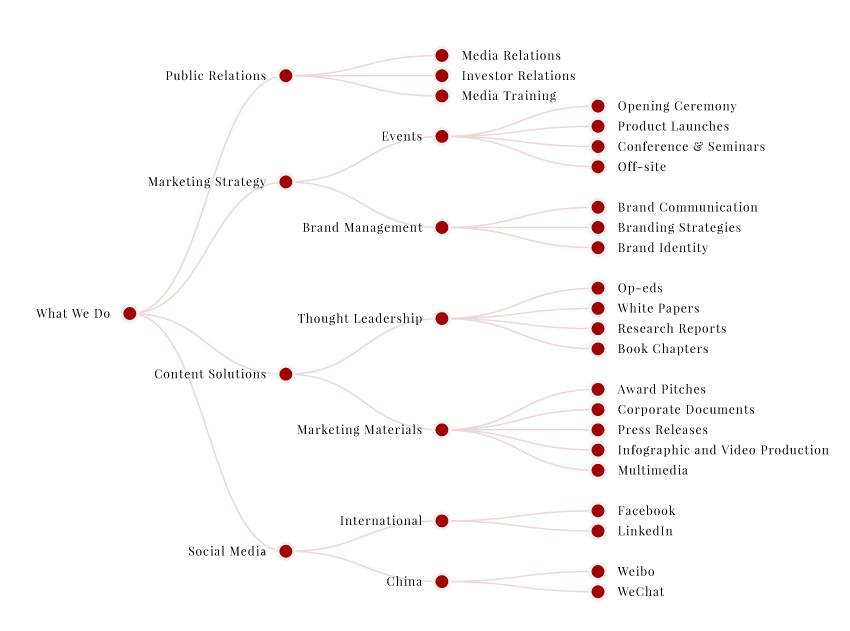
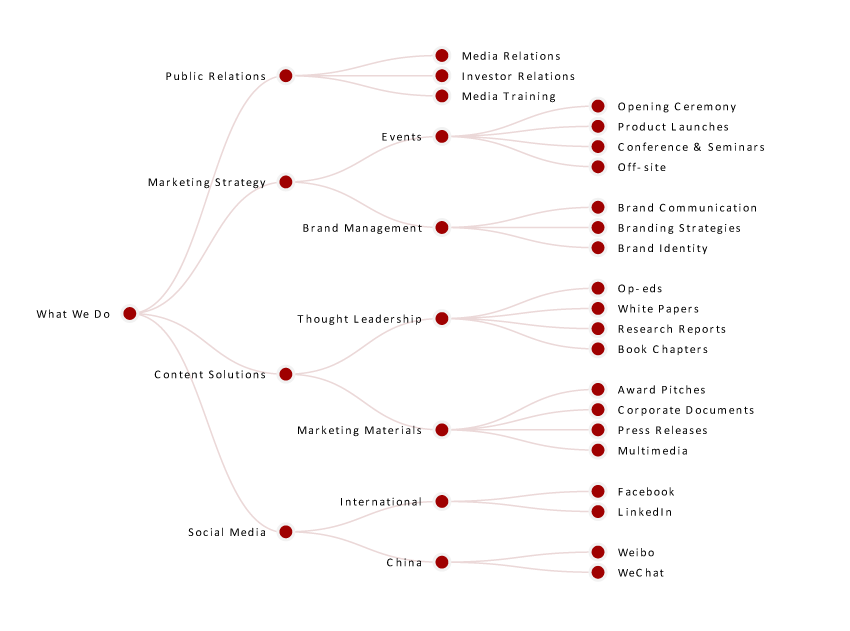
update

diff --git a/src/App.js b/src/App.js
@@ -27,11 +27,9 @@ import cover3 from './images/video3.mp4'
 import cover4 from './images/video4.mp4'
 import cover5 from './images/video5.mp4'
 import cover6 from './images/video6.mp4'
-
 import bgPatternImg from './images/vertical_cloth.png';
 import stephanie from './images/stephanie.png';
 import daniel from './images/daniel.png';
-import people1 from './images/people1.png';
 import people2 from './images/people2.png';
 import people3 from './images/people3.png';
 import people4 from './images/lijia.png';
@@ -57,7 +55,7 @@ $(document).ready(function() {
 
     
 
-    var margin = {top: 0, right: 160, bottom: 0, left: 110 + window_width/4},
+    var margin = {top: 0, right: 160, bottom: 0, left: 130 + window_width/4},
     width = window_width - margin.right - margin.left,
     height = window_height*0.9 - margin.top - margin.bottom;
 
@@ -422,7 +420,7 @@ let ms2_bg = {backgroundImage: 'url(' + ms2 + ')'}
 
 let pages = [
     {anchor: "whtwedo", cls: "", href: "#whtwedo", content: "What We Do", video: cover1},
-    {anchor: "ct", cls: "", href: "#ct", content: "Content Solution", video: cover2},
+    {anchor: "ct", cls: "", href: "#ct", content: "Content Solutions", video: cover2},
     {anchor: "pr", cls: "", href: "#pr", content: "Public Relations", video: cover3},
     {anchor: "sm", cls: "", href: "#sm", content: "Social Media", video: cover4},
     {anchor: "ms", cls: "", href: "#ms", content: "Marketing Strategy", video: cover5},
@@ -430,12 +428,12 @@ let pages = [
   ]
 
 let headshot = [
-    {name: "Daniel Inman", content: "Daniel Inman is an experienced financial writer who has worked in Hong Kong, China and Japan for more than a decade. He most recently covered markets across Asia and China’s financial system for The Wall Street Journal. Before that he was a deal reporter at FinanceAsia, a leading sell-side trade publication, where he also wrote about the Chinese economy. Daniel has a strong understanding of finance and economics across Asia –in addition to an awareness of how the region fits into the global financial system. He has a special focus on China. He has also provided marketing consultancy services to several of the world’s largest financial institutions –creating high-quality content for a number of global banks as well as several asset management companies. Daniel is from the United Kingdom and has a B.A. and MPhil in Philosophy from University College London.", src: daniel, title: "Director"},
-    {name: "Stephanie Cheung", content: "Stephanie is a public relations professional who has served clients in both the financial and luxury goods industries. She previously worked at FinanceAsia, where she helped arranged conferences and large banquets. After that, she gained hands-on PR and social marketing experience in China working on projects for high-profile clients - such as Chanel, Baccarat, American Airlines, Pernod Ricard, etc.", src: stephanie, title: "Account Director"},
-    {name: "Wynne Wang", content: "Wynne is a former financial journalist, who most recently worked at The Wall Street Journal in Shanghai, where she covered fixed income and the renminbi for close to a decade. Before that, she was worked at Oriental Morning Post. She graduated from Fudan University.", src: wynne, title: "Senior Media Advisor"},
-    {name: "Stella Shu", content: "Stella is a life-style editor. For more than 10 years, and has written for both English and Chinese language media.", src: people2, title: "Life-style Content Specialist"},
-    {name: "Li Jia", content: "Li Jia is a highly experienced translator that has worked in house at the Chinese securities regulator in Beijing and at the Shanghai Futures Exchange. A seasoned simultaneous interpreter, Li Jia has an extensive knowledge of finance that she is able to use to create fast and accurate translations from English to Chinese and vice versa. She has provided interpretation services for countless corporate clients and is a graduate of Zhejiang University.", src: people4, title: "Translator"},
-    {name: "Nick Shearman", content: "Nick is a highly experienced graphics editor and his work has been recognised by SOPA and The Asia Media Awards. He has worked with some of the world's top newspapers and news agencies including the Wall Street Journal, South China Morning Post and Agence France-Presse. His areas of expertise are in data visualization and analysis.", src: people5, title: "Information Graphic"},
+    {name: "Daniel Inman", content: "Daniel Inman is an experienced financial writer who has worked in Hong Kong, China and Japan for more than a decade. He most recently covered markets across Asia and China’s financial system for The Wall Street Journal. Before that he was a deal reporter at FinanceAsia, a leading sell-side trade publication, where he also wrote about the Chinese economy. Daniel has a strong understanding of finance and economics across Asia – in addition to an awareness of how the region fits into the global financial system. He has a special focus on China. He has also provided marketing consultancy services to several of the world’s largest financial institutions – creating high-quality content for a number of global banks as well as several asset management companies.", src: daniel, title: "Director", email: "daniel@vermilion-asia.com"},
+    {name: "Stephanie Cheung", content: "Stephanie is a public relations professional who has served clients in both the financial and luxury goods industries. She previously worked at FinanceAsia, where she helped arranged conferences and large banquets. After that, she gained hands-on PR and social marketing experience in China working on projects for high-profile clients – such as Chanel, Baccarat, American Airlines, Pernod Ricard, etc.", src: stephanie, title: "Account Director", email: "stephanie@vermilion-asia.com"},
+    {name: "Wynne Wang", content: "Wynne is a former financial journalist, who most recently worked at The Wall Street Journal in Shanghai, where she covered fixed income and the renminbi for close to a decade. Before that, she was worked at Oriental Morning Post. She graduated from Fudan University.", src: wynne, title: "Senior Media Advisor", email: ""},
+    {name: "Stella Shu", content: "Stella is a life-style editor and popular WeChat official account holder. She has more than 10 years’ experience writing for both English and Chinese language media.", src: people2, title: "Life-style Content Specialist", email: ""},
+    {name: "Li Jia", content: "Li Jia is a highly experienced translator that has worked in house at the Chinese securities regulator in Beijing and at the Shanghai Futures Exchange. A seasoned simultaneous interpreter, Li Jia has an extensive knowledge of finance that she is able to use to create fast and accurate translations from English to Chinese and vice versa. She has provided interpretation services for countless corporate clients and is a graduate of Zhejiang University.", src: people4, title: "Translator", email: ""},
+    {name: "Nick Shearman", content: "Nick is a highly experienced graphics editor and his work has been recognised by SOPA and The Asia Media Awards. He has worked with some of the world's top newspapers and news agencies including the Wall Street Journal, South China Morning Post and Agence France-Presse. His areas of expertise are in data visualization and analysis.", src: people5, title: "Information Graphic", email: ""},
   ]
 
 let App = React.createClass({
@@ -444,11 +442,13 @@ let App = React.createClass({
     let text_content
     let title
     let name
+    let email
     return {
       opacity_array: [1,0,0,0,0,0],
       text_content: headshot[0].content,
       title: headshot[0].title,
-      name: headshot[0].name
+      name: headshot[0].name,
+      email: headshot[0].email
     };
   },
 
@@ -470,7 +470,8 @@ let App = React.createClass({
     this.setState({
       text_content: headshot[order].content,
       title: headshot[order].title,
-      name: headshot[order].name
+      name: headshot[order].name,
+      email: headshot[order].email
     }) 
   },
 
@@ -524,7 +525,7 @@ let App = React.createClass({
               <div className="container">
                 <div className="intro_container">
                   <div className="introduction">
-                    <h2>Content Solution</h2>
+                    <h2>Content Solutions</h2>
                       <p>Vermilion Asia offers a comprehensive suite of content marketing solutions – providing everything from guidance at the strategic level to creating high-quality written materials that stand out in an environment where differentiation is of the utmost importance.</p>
                       <p>It is our belief that as companies face increasing demands to publish, the case for working with content specialists becomes more compelling. We are former journalists who have worked for top-tier publications in Asia, which means we have the necessary industry and regional knowledge, along with the right story-telling skills, to turn a corporate story into a compelling narrative.</p>
                   </div>
@@ -620,7 +621,7 @@ let App = React.createClass({
                       <div>
                         <div className="ms_image" style={ms2_bg}></div>
                         <h3 className="highlight">Events</h3>
-                        Vermilion Asia executes events that are able to strengthen a companys relationship with its clients, while at the same time providing networking opportunities for guests. We arrange formal dinners and banquets, offsites for staff and clients, as well as conferences.
+                        Vermilion Asia executes events that are able to strengthen a company's relationship with its clients, while at the same time providing networking opportunities for guests. We arrange formal dinners and banquets, offsites for staff and clients, as well as conferences.
                         <br/>
                         <br/>
                         We can handle every step of the process – from the initial planning stages, designing and sourcing materials, as well as on-the-day execution.
@@ -646,6 +647,7 @@ let App = React.createClass({
                     <div className="title">
                       <h2>{this.state.name}</h2>
                       <h3>{this.state.title}</h3>
+                      <a href={"mailto:" + this.state.email}>{this.state.email}</a>
                     </div>
                     <div className="description">{this.state.text_content}</div>
                   </div>

diff --git a/src/App.css b/src/App.css
@@ -15,8 +15,8 @@
 
 .App {
   text-align: center;
-  font-family: 'Lato', 'Calibri', 'Verdana', 'Arial', sans-serif;
-  font-size: 14px;
+  font-family: 'Calibri', 'Lato', 'Verdana', 'Arial', sans-serif;
+  font-size: 13px;
   line-height: 1.8;
 }
 
@@ -232,8 +232,8 @@ video.cover_video {
 }
 
 .node text {
-  font-size: 12px;
-  font-family: 'Playfair Display', serif;
+  font-size: 13px;
+  font-family: 'calibri', sans-serif;
   letter-spacing: 1px;
 }
 
@@ -281,7 +281,7 @@ video.cover_video {
     color: #fff;
     text-align: center;
     opacity: 1;
-    font-size: 14px;
+    font-size: 1em;
     background-color: rgb(92, 18, 18);
     margin-top: -.5rem;
     padding: .4rem;
@@ -323,10 +323,25 @@ video.cover_video {
 }
 
 .text_container .title h3 {
-  margin-top: -10px;
-  font-size: 20px;
+  margin-top: 0px;
+  margin-bottom: 0px;
+  font-size: 1.5em;
   color: grey;
   font-family: 'Playfair Display SC', serif;
+  line-height: 1;
+}
+
+.text_container .title a {
+  font-weight: bold;
+  font-size: 1.1em;
+  color: grey;
+  font-family: 'Playfair Display', serif;
+  margin: 5px 0;
+  display: block;
+}
+
+.text_container .title a:hover {
+  color: black;
 }
 
 .text_container .description {
@@ -836,7 +851,7 @@ video.cover_video {
   }
 
   .ms_image {
-    height: 0vh;
+    height: 20vh;
   }
 
   /*.chart_text {
